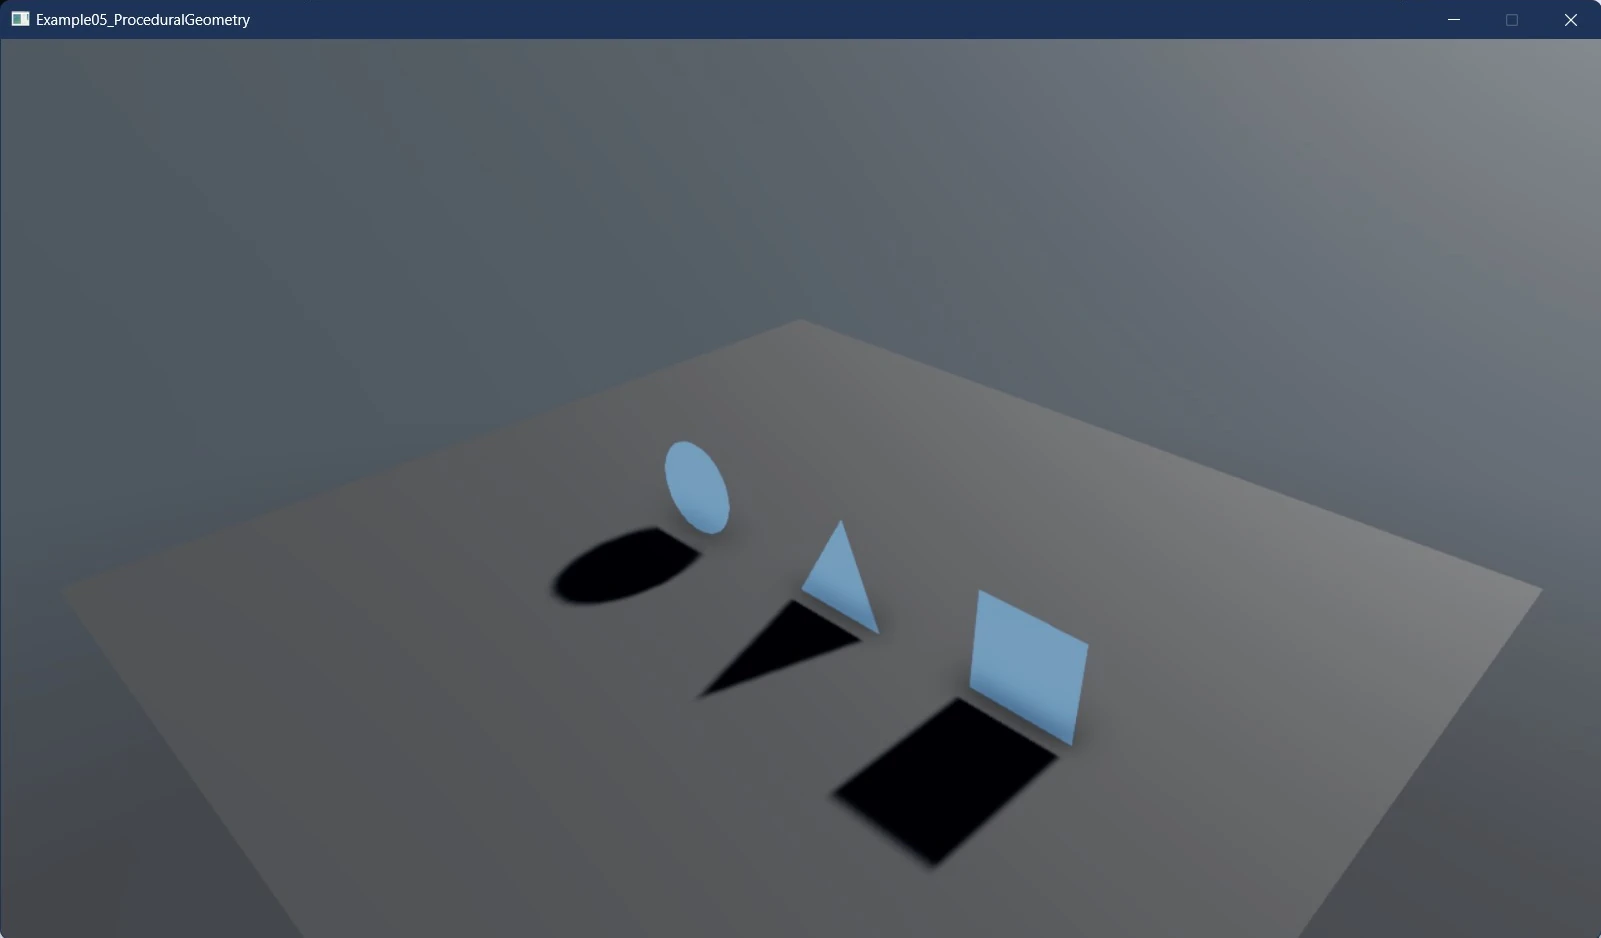
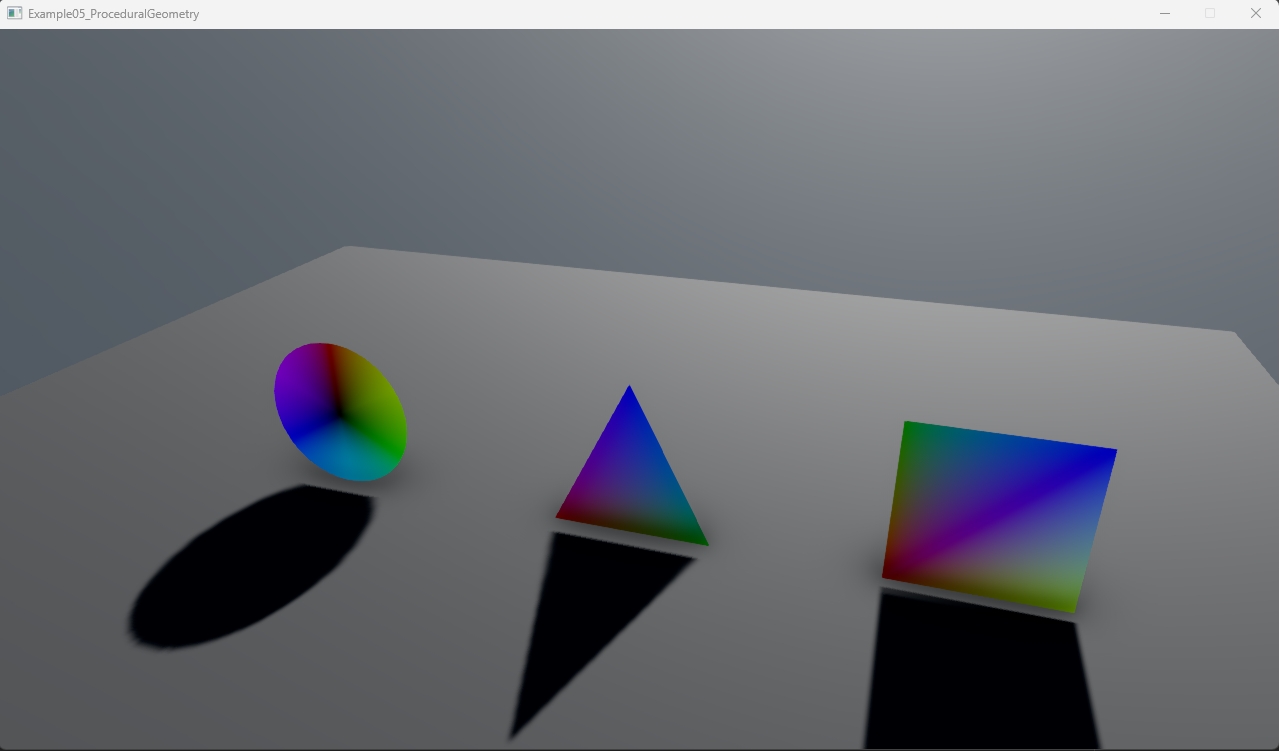
Add documentation as well as a life updates

diff --git a/examples/code-only/Example05_ProceduralGeometry/Program.cs b/examples/code-only/Example05_ProceduralGeometry/Program.cs
@@ -2,12 +2,17 @@ using Stride.CommunityToolkit.Engine;
 using Stride.CommunityToolkit.Rendering.Utilities;
 using Stride.Core.Mathematics;
 using Stride.Engine;
+using Stride.Games;
 using Stride.Graphics;
 using Stride.Rendering;
+using Stride.Rendering.Materials;
+using Stride.Rendering.Materials.ComputeColors;
 
 using var game = new Game();
 
-game.Run(start: Start);
+Entity? circleEntity = null;
+game.Run(start: Start, update: Update);
+
 
 void Start(Scene rootScene)
 {
@@ -15,24 +20,33 @@ void Start(Scene rootScene)
 
     AddMesh(game.GraphicsDevice, rootScene, Vector3.Zero, GiveMeATriangle);
     AddMesh(game.GraphicsDevice, rootScene, Vector3.UnitX * 2, GiveMeAPlane);
-    AddMesh(game.GraphicsDevice, rootScene, Vector3.UnitX * -2, GiveMeACircle);
+}
+void Update(Scene rootScene, GameTime gameTime)
+{
+    var segments = (int)((Math.Cos(gameTime.Total.TotalMilliseconds / 500) + 1) / 2 * 47) + 3;
+    circleEntity?.DestroyEntity();
+    circleEntity = AddMesh(game.GraphicsDevice, rootScene, Vector3.UnitX * -2, b => GiveMeACircle(b, segments));
 }
 
 void GiveMeATriangle(MeshBuilder meshBuilder)
 {
-    meshBuilder.WithIndexType(IndexingType.Int32);
+    meshBuilder.WithIndexType(IndexingType.Int16);
     meshBuilder.WithPrimitiveType(PrimitiveType.TriangleList);
 
     var position = meshBuilder.WithPosition<Vector3>();
+    var color = meshBuilder.WithColor<Color>();
 
     meshBuilder.AddVertex();
     meshBuilder.SetElement(position, new Vector3(0, 0, 0));
+    meshBuilder.SetElement(color, Color.Red);
 
     meshBuilder.AddVertex();
     meshBuilder.SetElement(position, new Vector3(1, 0, 0));
+    meshBuilder.SetElement(color, Color.Green);
 
     meshBuilder.AddVertex();
     meshBuilder.SetElement(position, new Vector3(.5f, 1, 0));
+    meshBuilder.SetElement(color, Color.Blue);
 
     meshBuilder.AddIndex(0);
     meshBuilder.AddIndex(2);
@@ -41,22 +55,27 @@ void GiveMeATriangle(MeshBuilder meshBuilder)
 
 void GiveMeAPlane(MeshBuilder meshBuilder)
 {
-    meshBuilder.WithIndexType(IndexingType.Int32);
+    meshBuilder.WithIndexType(IndexingType.Int16);
     meshBuilder.WithPrimitiveType(PrimitiveType.TriangleList);
 
     var position = meshBuilder.WithPosition<Vector3>();
+    var color = meshBuilder.WithColor<Color>();
 
     meshBuilder.AddVertex();
     meshBuilder.SetElement(position, new Vector3(0, 0, 0));
+    meshBuilder.SetElement(color, Color.Red);
 
     meshBuilder.AddVertex();
     meshBuilder.SetElement(position, new Vector3(0, 1, 0));
+    meshBuilder.SetElement(color, Color.Green);
 
     meshBuilder.AddVertex();
     meshBuilder.SetElement(position, new Vector3(1, 1, 0));
+    meshBuilder.SetElement(color, Color.Blue);
 
     meshBuilder.AddVertex();
     meshBuilder.SetElement(position, new Vector3(1, 0, 0));
+    meshBuilder.SetElement(color, Color.Yellow);
 
     meshBuilder.AddIndex(0);
     meshBuilder.AddIndex(1);
@@ -67,25 +86,28 @@ void GiveMeAPlane(MeshBuilder meshBuilder)
     meshBuilder.AddIndex(3);
 }
 
-void GiveMeACircle(MeshBuilder meshBuilder)
+void GiveMeACircle(MeshBuilder meshBuilder, int segments)
 {
-    meshBuilder.WithIndexType(IndexingType.Int32);
+    meshBuilder.WithIndexType(IndexingType.Int16);
     meshBuilder.WithPrimitiveType(PrimitiveType.TriangleList);
 
     var position = meshBuilder.WithPosition<Vector3>();
+    var color = meshBuilder.WithColor<Color4>();
 
-    const int segments = 48;
     for (var i = 0; i < segments; i++)
     {
         var x = (float)Math.Sin(Math.Tau / segments * i) / 2;
         var y = (float)Math.Cos(Math.Tau / segments * i) / 2;
+        var hsl = new ColorHSV(360f / segments * i, 1, 1, 1).ToColor();
 
         meshBuilder.AddVertex();
         meshBuilder.SetElement(position, new Vector3(x + .5f, y + .5f, 0));
+        meshBuilder.SetElement(color, hsl);
     }
 
     meshBuilder.AddVertex();
     meshBuilder.SetElement(position, new Vector3(.5f, .5f, 0));
+    meshBuilder.SetElement(color, Color.Black.ToColor4());
 
     for (var i = 0; i < segments; i++)
     {
@@ -95,7 +117,7 @@ void GiveMeACircle(MeshBuilder meshBuilder)
     }
 }
 
-void AddMesh(GraphicsDevice graphicsDevice, Scene rootScene, Vector3 position, Action<MeshBuilder> build)
+Entity AddMesh(GraphicsDevice graphicsDevice, Scene rootScene, Vector3 position, Action<MeshBuilder> build)
 {
     using var meshBuilder = new MeshBuilder();
     build(meshBuilder);
@@ -103,10 +125,21 @@ void AddMesh(GraphicsDevice graphicsDevice, Scene rootScene, Vector3 position, A
     var entity = new Entity { Scene = rootScene, Transform = { Position = position } };
     var model = new Model
     {
+        new MaterialInstance {
+            Material = Material.New(graphicsDevice, new MaterialDescriptor {
+                Attributes = new MaterialAttributes {
+                    DiffuseModel = new MaterialDiffuseLambertModelFeature(),
+                    Diffuse = new MaterialDiffuseMapFeature {
+                        DiffuseMap = new ComputeVertexStreamColor()
+                    },
+                }
+            })
+        },
         new Mesh {
             Draw = meshBuilder.ToMeshDraw(graphicsDevice),
             MaterialIndex = 0
         }
     };
     entity.Add(new ModelComponent { Model = model });
+    return entity;
 }

diff --git a/docs/manual/code-only/examples/procedural-geometry.md b/docs/manual/code-only/examples/procedural-geometry.md
@@ -4,6 +4,143 @@ This example demonstrates how to create a procedural geometry mesh triangle, pla
 
 ![Stride UI Example](media/stride-game-engine-procedural-geometry.webp)
 
+For this example we use a new community class called MeshBuilder.
+it streamlines the creation of meshes using a simple builder syntax.
+
+## Once there was a triangle:
+Like in all rendering examples let's start with a simple triangle.
+
+
+### VertexElement
+A vertex element is a value assigned to a specific vertex.
+In Stride we can use a lot of different types to define our data some of them are `Vector3`, `Vector4`, `Color`, `Int`, `Float`, `Half` and more.
+
+We need to tell stride how we want layout this data so our shader can read our various values.
+This is where Vertex elements come in. They define a SemanticName, SemanticIndex, Offset and a Size.
+
+By default stride allows you to define structs for your data or to use custom buffers for your data.
+For most use-cases this is probably fine and the easier approach compared to a mesh builder.
+
+However if you need to define your data dynamically or want a generalized method here we go.
+
+### MeshBuilder
+The meshbuilder abstracts away a lot of complexity behind custom buffers, type erasure, memory allocation and instead
+provides you with a simpler builder API to define your mesh dynamically.
+
+It uses the same concepts as Stride so you still have to define your layout manually but the process is easier and you don't need to worry about the memory layout yourself.
+To use a MeshBuilder just create a new instance.
+
+```csharp
+using var meshBuilder = new MeshBuilder()
+```
+
+__Note__:
+Notice the using at the front. This part is important always dispose your mesh builder if you don't need it anymore.
+The builder uses pooling behind the scenes and if you don't dispose it it can never return the internal buffers which can lead to significant performance degregation.
+
+### Layout:
+As we discussed earlier we need to tell the `MeshBuilder` which data types and fields we want to use.
+For this we use the various `With...` methods.
+
+##### Primitive Type:
+First we need to select a primitive type in our example we create a bunch of triangles so we use this code:
+
+```csharp
+meshBuilder.WithPrimitiveType(PrimitiveType.TriangleList);
+```
+
+##### Indexing:
+The mesh builder supports three types of indexing, `None`, `Int16` or `Int32`.
+In our case we definitely don't need more than 32k indices so we can safely use the Int16 version.
+
+```csharp
+meshBuilder.WithIndexType(IndexingType.Int16);
+```
+### Elements:
+For our example we will use a Vertex with a Position and a Color element.
+
+```csharp
+var position = meshBuilder.WithPosition<Vector3>();
+var color = meshBuilder.WithColor<Color>();
+```
+
+These methods return the element index we need when we set our actual values.
+We use a `Vector3` as our vertex position and a `Color` for our vertex color.
+Other types would work as well but these are very common so we will use them as well.
+
+### Vertices:
+Next we define our vertices. For that we use a new method `AddVertex`.
+This will add a new vertex to our builder and allows us to use the `Get/SetElement` methods.
+
+You can also declare multiple Vertices before setting the actual values but this is the simplest way for now.
+
+```csharp
+meshBuilder.AddVertex();
+```
+
+After this we can set our element data. For this we use the `SetElement` method.
+It expects an element index (which we received from `WithPosition` and `WithColor` earlier) as well as your desired value.
+```csharp
+meshBuilder.SetElement(position, new Vector3(0, 0, 0));
+meshBuilder.SetElement(color, Color.Red);
+```
+
+We repeat this for the other two triangle points as well.
+```csharp
+meshBuilder.AddVertex();
+meshBuilder.SetElement(position, new Vector3(1, 0, 0));
+meshBuilder.SetElement(color, Color.Green);
+
+meshBuilder.AddVertex();
+meshBuilder.SetElement(position, new Vector3(.5f, 1, 0));
+meshBuilder.SetElement(color, Color.Blue);
+```
+
+### Indices:
+Next we need to tell the `MeshBuilder` how we want to connect the vertices.
+We configured indexing for our builder so we need to do this explicitly.
+For a simple example like this you could also completely skip the indexing part and use `IndexingType.None` instead.
+
+the winding order in stride is counter-clockwise so we use these indices.
+```csharp
+meshBuilder.AddIndex(0);
+meshBuilder.AddIndex(2);
+meshBuilder.AddIndex(1);
+```
+
+### Mesh:
+The only thing left is building the actual mesh. For this we use this method.
+It expects a graphics device as an argument. If you call this from a script this is usually avalable for you using the `GraphicsDevice` property of your script.
+```csharp
+meshBuilder.ToMeshDraw(GraphicsDevice)
+```
+
+##### Display
+To show this `MeshDraw` on screen we create a `ModelComponent` and add our `MeshDraw` as new model.
+We also need to define a material to use our vertex colors on screen. Else the Triangle would just be white.
+```
+var model = new Model
+{
+    new MaterialInstance {
+        Material = Material.New(graphicsDevice, new MaterialDescriptor {
+            Attributes = new MaterialAttributes {
+                DiffuseModel = new MaterialDiffuseLambertModelFeature(),
+                Diffuse = new MaterialDiffuseMapFeature {
+                    DiffuseMap = new ComputeVertexStreamColor()
+                },
+            }
+        })
+    },
+    new Mesh {
+        Draw = meshBuilder.ToMeshDraw(graphicsDevice),
+        MaterialIndex = 0
+    }
+}
+```
+
+Congrats you got a triangle.
+For more examples take a look at the full example:
+
 View on [GitHub](https://github.com/stride3d/stride-community-toolkit/tree/main/examples/code-only/Example05_ProceduralGeometry).
 
 [!code-csharp[](../../../../examples/code-only/Example05_ProceduralGeometry/Program.cs)]
